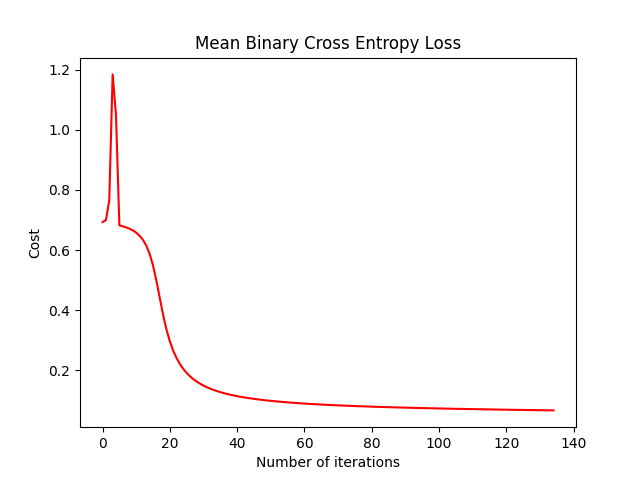
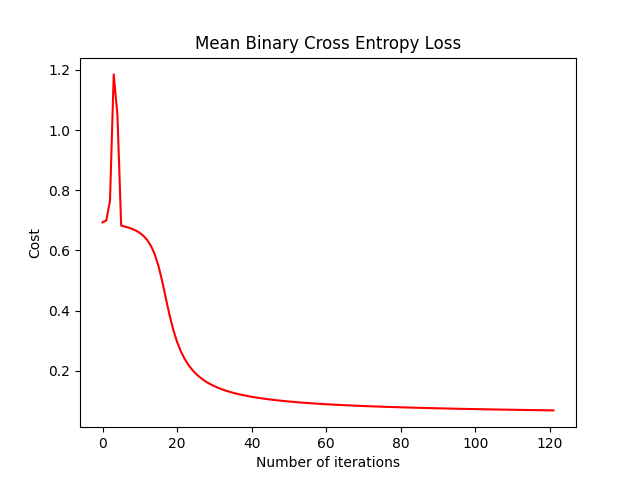
Implement early stopping in terms of validation loss

diff --git a/mlp.py b/mlp.py
@@ -41,14 +41,18 @@ class ShallowNetwork:
         self.h_w = np.zeros((input_size, hidden_size))
         self.o_w = np.zeros((hidden_size, output_size))
 
-    def train(self, train_data: np.ndarray, train_labels: np.ndarray) -> tuple[int, float, list[float]]:
+    def train(self, train_data: np.ndarray, train_labels: np.ndarray, val_data: np.ndarray,
+              val_labels: np.ndarray) -> tuple[int, float, list[float]]:
         """
         Train the network on a set of training data.
         :param train_data: a numpy array containing the train data
         :param train_labels: a numpy array containing the respective labels for the training data
+        :param val_data: a numpy array containing the validation data used for the early stopping algorithm
+        :param val_labels: a numpy array containing the labels for the validation data used for the early stopping
+        algorithm
         :return: the number of epochs used, the minimum error found, and the error history
         """
-        grad, epoch, last_error, error_history = self._gradient_descent(train_data, train_labels)
+        grad, epoch, last_error, error_history = self._gradient_descent(train_data, train_labels, val_data, val_labels)
         self.h_w = grad["h_w"]
         self.o_w = grad["o_w"]
         self.h_b = grad["h_b"]
@@ -56,30 +60,22 @@ class ShallowNetwork:
 
         return epoch, last_error, error_history
 
-    def test(self, test_data: np.ndarray, test_labels: np.ndarray) -> float:
-        """
-        Feed-forward the data into the network to get the computed testing/validation error without
-        updating its weights.
-        :param test_data: a numpy array containing the test data
-        :param test_labels: a numpy array containing the respective labels for the test data
-        :return: the mean test/validation loss
-        """
-        _, epoch, last_error, error_history = self._gradient_descent(test_data, test_labels)
-        return np.array(error_history).mean()
-
-    def _gradient_descent(self, train_data: np.ndarray, train_labels: np.ndarray) \
-            -> tuple[dict[str, np.ndarray], int, float, list[float]]:
+    def _gradient_descent(self, train_data: np.ndarray, train_labels: np.ndarray, val_data: np.ndarray,
+                          val_labels: np.ndarray) -> tuple[dict[str, np.ndarray], int, float, list[float]]:
         """
         Implements the entire gradient descent procedure, calculating the gradient and loss.
         :param train_data: a numpy array containing the train data
         :param train_labels: a numpy array containing the respective labels for the training data
+        :param val_data: a numpy array containing the validation data used for the early stopping algorithm
+        :param val_labels: a numpy array containing the labels for the validation data used for the early stopping
+        algorithm
         :return: a dictionary containing the gradient, the number of epochs used, the minimum error found, and the error
         history
         """
         epoch: int = 0  # logging
         least_error: float = np.inf
         epochs_since_improvement: int = 0
-        best_model_params = None
+        best_model_params = {}
         error_history = []
 
         h_w = self.h_w.copy()
@@ -89,7 +85,8 @@ class ShallowNetwork:
 
         while epochs_since_improvement <= self.patience:
             parameters = {"h_w": h_w, "o_w": o_w, "h_b": h_b, "o_b": o_b}
-            dw1, dw2, db1, db2, cost = self._back_propagation(train_data, train_labels, parameters)
+            dw1, dw2, db1, db2, train_loss = self._back_propagation(train_data, train_labels, parameters)
+            error_history.append(train_loss)
 
             h_w -= self.eta * dw1
             o_w -= self.eta * dw2
@@ -97,21 +94,20 @@ class ShallowNetwork:
             o_b -= self.eta * db2
 
             # early stopping
-            error = cost.mean()
-            if error + self.tolerance < least_error:
-                least_error = error
+            val_loss: float = self._forward_pass(parameters, val_data, val_labels)[4]
+            if val_loss + self.tolerance < least_error:
+                least_error = val_loss
                 epochs_since_improvement = 0
-                best_model_params = parameters
+                best_model_params: dict[str, np.ndarray] = parameters
             else:
                 epochs_since_improvement += 1
 
-            error_history.append(error)
             epoch += 1
 
         return best_model_params, epoch, least_error, error_history
 
     def _back_propagation(self, x: np.ndarray, y: np.ndarray, parameters: dict[str, np.ndarray]) \
-            -> tuple[np.ndarray, np.ndarray, np.ndarray, np.ndarray, np.ndarray]:
+            -> tuple[np.ndarray, np.ndarray, np.ndarray, np.ndarray, float]:
         """
         Implements the back-propagation procedure for one epoch.
         :param parameters: a dictionary containing the last computed weights and biases
@@ -119,6 +115,38 @@ class ShallowNetwork:
         :param y: a numpy array containing the respective labels for the training data
         :return: a tuple containing the gradients for the hidden weights, output weights, hidden bias, output bias and
         the current error respectively
+        """
+        a1, z1, a2, z2, error = self._forward_pass(parameters, x, y)
+
+        # Backward pass
+        m = x.shape[1]
+
+        # output layer activation derivative
+        dy_hat = self.cost_func_prime(a2, y)
+        dz2 = dy_hat * self.activation_func_prime(z2)
+        # something is wrong in the line below, and it fucks the computation under specific circumstances
+        dw2: np.ndarray = (1 / m) * a1.T.dot(dz2)
+        db2: np.ndarray = (1 / m) * np.sum(dz2, axis=0)
+
+        # hidden layer activation derivative
+        da1 = dz2.dot(parameters["o_w"].T)
+        dz1 = da1 * self.activation_func_prime(z1)
+        dw1: np.ndarray = (1 / m) * x.T.dot(dz1)
+        db1: np.ndarray = (1 / m) * np.sum(dz1, axis=0)
+
+        return dw1, dw2, db1, db2, error
+
+    def _forward_pass(self, parameters: dict[str, np.ndarray], x: np.ndarray, y: np.ndarray = None) \
+            -> tuple[np.ndarray, np.ndarray, np.ndarray, np.ndarray, float]:
+        """
+        Implement a forward pass through the network and get the resulting outputs and error
+        :param parameters: a dictionary containing the last computed weights and biases
+        :param x: a numpy array containing the data
+        :param y: a numpy array containing the respective labels for the data, None if the method is being called for
+        prediction (and thus no labels are provided)
+        :return: a tuple containing the logits and output for the hidden layer and output layers respectively, as well
+        as the mean error if a y array was provided
+
         """
         h_w = parameters["h_w"]
         o_w = parameters["o_w"]
@@ -131,42 +159,29 @@ class ShallowNetwork:
         z2 = a1.dot(o_w) + o_b
         a2 = self.activation_func(z2)
 
-        # Backward pass
-        m = x.shape[1]
+        if y is not None:
+            error = self.cost_func(a2, y).mean()
+        else:
+            error = None
 
-        # output layer activation derivative
-        error = self.cost_func(a2, y)
-        dy_hat = self.cost_func_prime(a2, y)
-        dz2 = dy_hat * self.activation_func_prime(z2)
-        # something is wrong in the line below, and it fucks the computation under specific circumstances
-        dw2: np.ndarray = (1 / m) * a1.T.dot(dz2)
-        db2: np.ndarray = (1 / m) * np.sum(dz2, axis=0)
-
-        # hidden layer activation derivative
-        da1 = dz2.dot(o_w.T)
-        dz1 = da1 * self.activation_func_prime(z1)
-        dw1: np.ndarray = (1 / m) * x.T.dot(dz1)
-        db1: np.ndarray = (1 / m) * np.sum(dz1, axis=0)
-
-        return dw1, dw2, db1, db2, error
+        return a1, z1, a2, z2, error
 
     def output(self, x: np.ndarray) -> np.ndarray:
         """
-        Return the logits produced by the model for the provided data array.
+        Return the results produced by the model for the provided data array.
         :param x: a numpy array containing the data to be classified
         :return: a numpy array containing the logit for each data point
         """
-        # pass to hidden layer
-        x = self.activation_func(x.dot(self.h_w) + self.h_b)
-        # pass to output layer
-        x = self.activation_func(x.dot(self.o_w) + self.o_b)
-        return x
+        parameters = {"h_w": self.h_w, "o_w": self.o_w, "h_b": self.h_b, "o_b": self.o_b}
+        return self._forward_pass(parameters, x)[2]
 
-    def predict(self, test_data: np.ndarray) -> np.ndarray:
+    def predict(self, test_data: np.ndarray, test_labels: np.ndarray = None) -> tuple[np.ndarray, float]:
         """
         Get the predicted classification for the provided data array.
         :param test_data: a numpy array containing the data to be classified
-        :return: a numpy array containing a binary classification for each data point
+        :param test_labels: a numpy array containing the data to be classified
+        :return: a numpy array containing a binary classification for each data point and the mean error
         """
-        return np.where(self.output(test_data) < 0.5, 0, 1)
-
+        parameters = {"h_w": self.h_w, "o_w": self.o_w, "h_b": self.h_b, "o_b": self.o_b}
+        _, _, output, _, loss = self._forward_pass(parameters, test_data, test_labels)
+        return np.where(output < 0.5, 0, 1), loss

diff --git a/run_mlp.py b/run_mlp.py
@@ -21,18 +21,17 @@ classifier = ShallowNetwork(input_size=INPUT_SIZE, hidden_size=25, output_size=O
                             patience=PATIENCE, tolerance=TOLERANCE,
                             activation_func=sigmoid, activation_func_prime=sigmoid_prime, cost_func=binary_x_entropy,
                             cost_func_prime=binary_x_entropy_prime)
-epochs, last_error, train_cost_history = classifier.train(data.x_train, data.y_train)
+epochs, val_error, train_cost_history = classifier.train(data.x_train, data.y_train, data.x_valid, data.y_valid)
 
 # Training results
-labels = classifier.predict(data.x_train)
-print("Train error: ", last_error)
-print("Training accuracy: ", round(get_accuracy(labels, data.y_train), 3))
+print("Mean validation loss: ", val_error)
+train_labels, _ = classifier.predict(data.x_train)
+print("Training accuracy: ", round(get_accuracy(train_labels, data.y_train), 3))
 
 # Testing results
-test_error = classifier.test(data.x_test, data.y_test)
-print("Test error: ", test_error)
-labels = classifier.predict(data.x_test)
-print("Testing accuracy: ", round(get_accuracy(labels, data.y_test), 3))
+test_labels, test_error = classifier.predict(data.x_test, data.y_test)
+print("Mean testing loss: ", test_error)
+print("Testing accuracy: ", round(get_accuracy(test_labels, data.y_test), 3))
 
 # Train error plot
 print("Creating train loss plot...")
@@ -65,9 +64,9 @@ for i in range(m_search_count):
                                     patience=PATIENCE, tolerance=TOLERANCE, activation_func=sigmoid,
                                     activation_func_prime=sigmoid_prime, cost_func=binary_x_entropy,
                                     cost_func_prime=binary_x_entropy_prime)
-        epochs, _, _ = classifier.train(data.x_train, data.y_train)
+        epochs, _, _ = classifier.train(data.x_train, data.y_train, data.x_valid, data.y_valid)
         epochs_needed[i][j] = epochs
-        val_loss[i][j] = classifier.test(data.x_valid, data.y_valid)
+        val_loss[i][j] = classifier.predict(data.x_valid)[1]
 
 best_index = np.unravel_index(val_loss.argmin(), val_loss.shape)
 best_m = m_values[best_index[0]]
@@ -84,11 +83,10 @@ classifier = ShallowNetwork(input_size=INPUT_SIZE, hidden_size=best_m, output_si
                             activation_func_prime=sigmoid_prime, cost_func=binary_x_entropy,
                             cost_func_prime=binary_x_entropy_prime)
 
-classifier.train(data.x_train, data.y_train)
-optimal_test_error = classifier.test(data.x_test, data.y_test)
-labels = classifier.predict(data.x_test)
+classifier.train(data.x_train, data.y_train, data.x_valid, data.y_valid)
+optimal_test_labels, optimal_test_error = classifier.predict(data.x_test, data.y_test)
 print("Test loss for optimal hyper-parameters: ", optimal_test_error)
-print("Test accuracy for optimal hyper-parameters: ", round(get_accuracy(labels, data.y_test), 3))
+print("Test accuracy for optimal hyper-parameters: ", round(get_accuracy(optimal_test_labels, data.y_test), 3))
 
 
 end_time = time.process_time()
